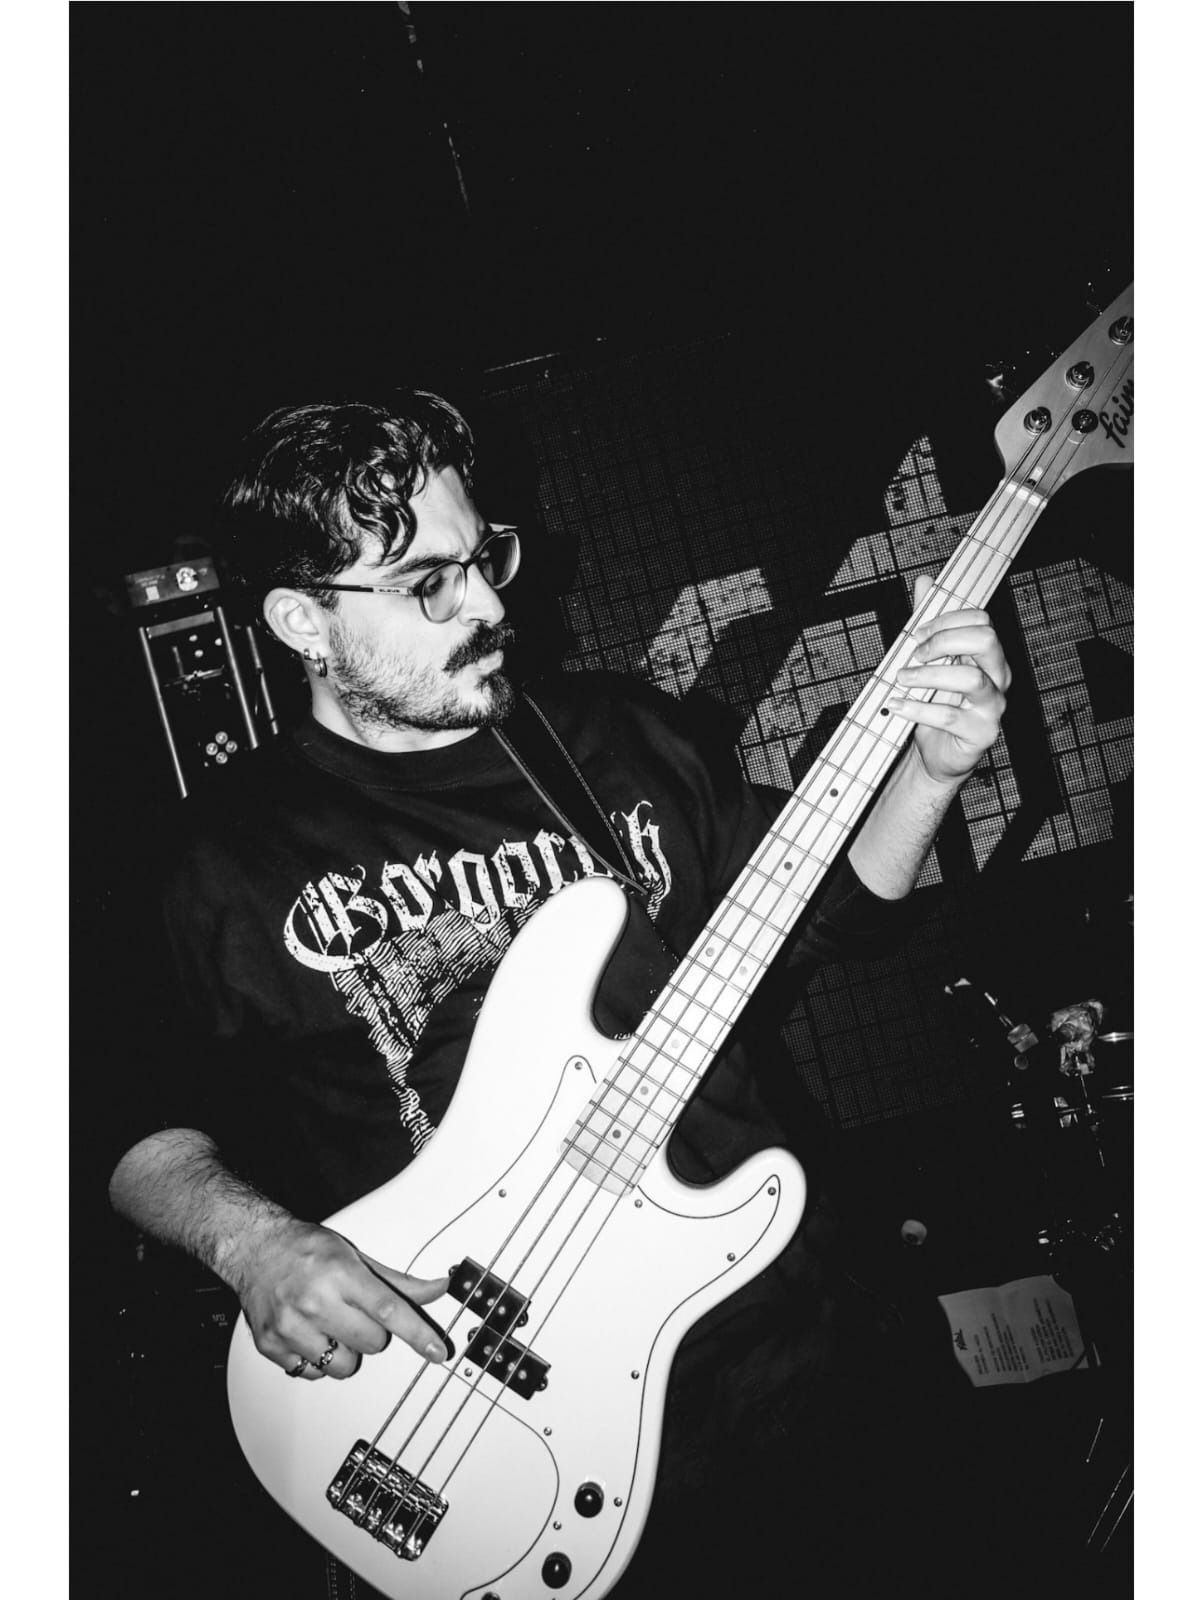
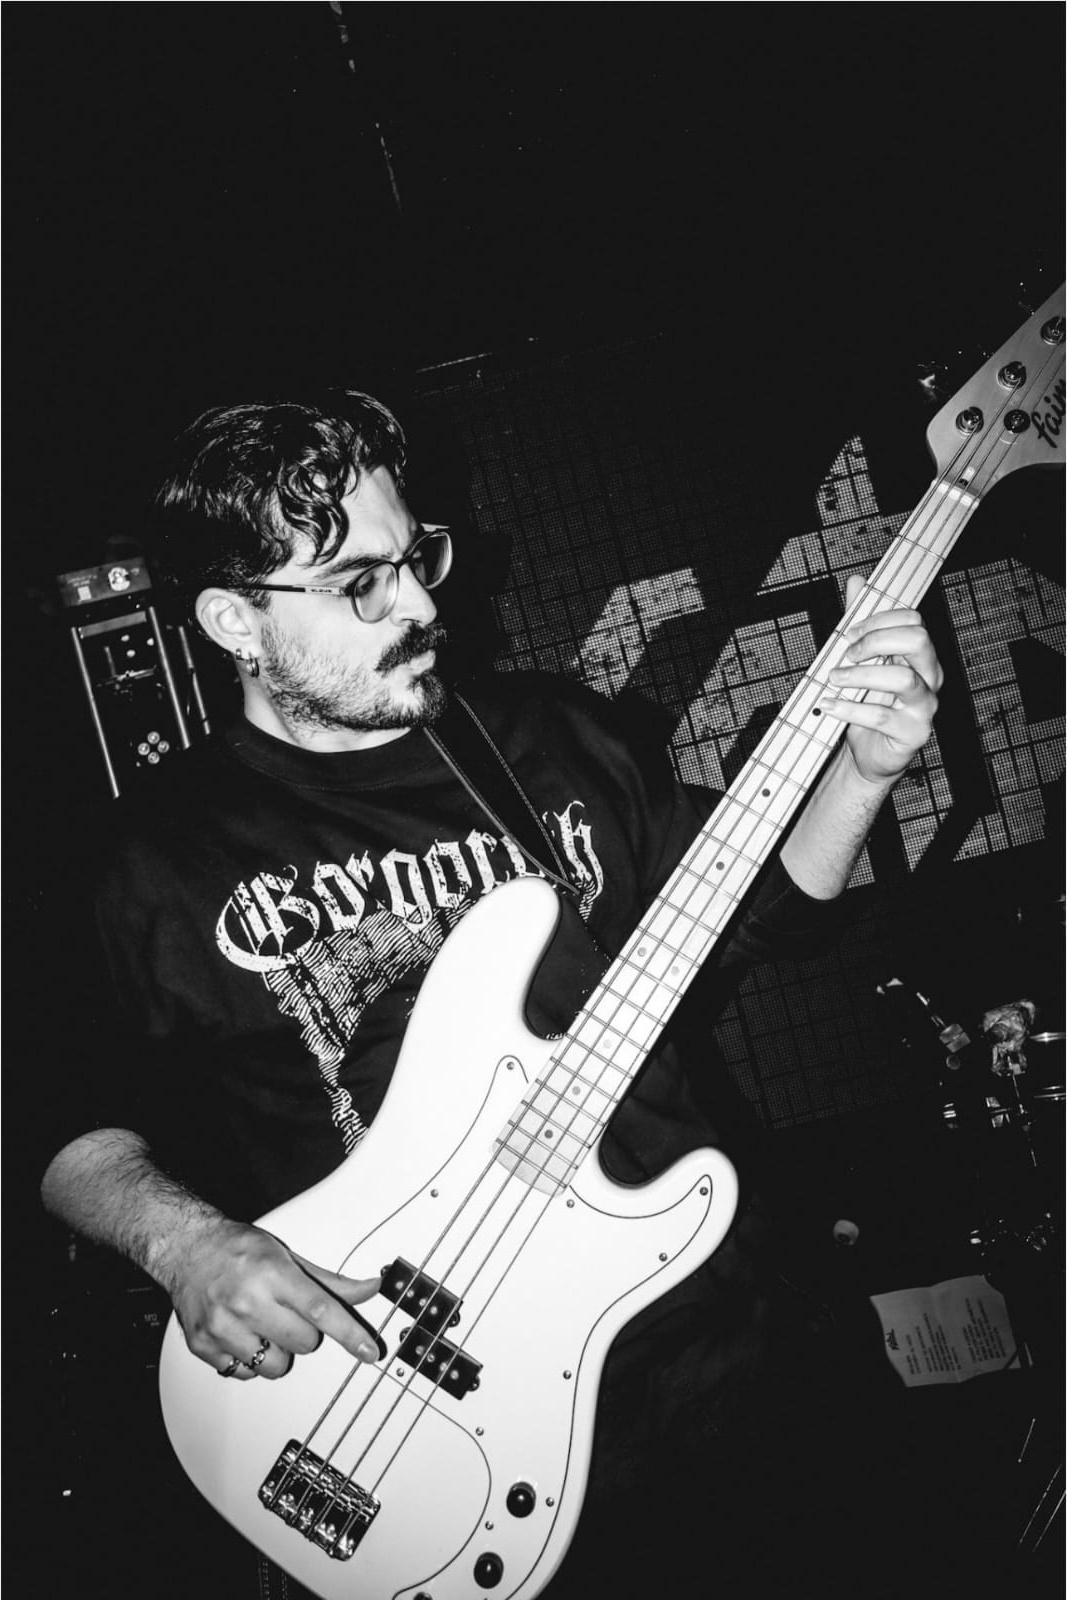
Corregir renderizado de modal galeria, recortar bordes blancos de fotos de Orange y renombrar carpetas web-safe

diff --git a/index.html b/index.html
@@ -26,7 +26,7 @@
     <!-- FontAwesome for Premium Social & Control Icons -->
     <link rel="stylesheet" href="https://cdnjs.cloudflare.com/ajax/libs/font-awesome/6.4.0/css/all.min.css">
 
-    <link rel="stylesheet" href="style.css">
+    <link rel="stylesheet" href="style.css?v=20260730_2">
 </head>
 
 <body>
@@ -277,7 +277,7 @@
                                 </tr>
                             </thead>
                             <tbody>
-                                <tr class="date-row" data-venue="Liverpool Club" data-location="Palermo, CABA" data-date="5 Jul 2026" data-media='["img/LIVERPOOL CLUB/liverpool_1.jpg", "img/LIVERPOOL CLUB/liverpool_2.jpg", "img/LIVERPOOL CLUB/liverpool_3.jpg"]'>
+                                <tr class="date-row" data-venue="Liverpool Club" data-location="Palermo, CABA" data-date="5 Jul 2026" data-media='["img/liverpool/liverpool_1.jpg", "img/liverpool/liverpool_2.jpg", "img/liverpool/liverpool_3.jpg"]'>
                                     <td class="date-cell">
                                         <span class="date-day">5</span>
                                         <div class="date-month-year">
@@ -296,7 +296,7 @@
                                         </div>
                                     </td>
                                 </tr>
-                                <tr class="date-row" data-venue="Orange" data-location="San Martín, Buenos Aires" data-date="26 Abr 2026" data-media='["img/ORANGE/orange_1.jpg", "img/ORANGE/orange_2.jpg", "img/ORANGE/orange_3.jpg", "img/ORANGE/orange_4.jpg", "img/ORANGE/orange_5.jpg", "img/ORANGE/orange_6.jpg"]'>
+                                <tr class="date-row" data-venue="Orange" data-location="San Martín, Buenos Aires" data-date="26 Abr 2026" data-media='["img/orange/orange_1.jpg", "img/orange/orange_2.jpg", "img/orange/orange_3.jpg", "img/orange/orange_4.jpg", "img/orange/orange_5.jpg", "img/orange/orange_6.jpg"]'>
                                     <td class="date-cell">
                                         <span class="date-day">26</span>
                                         <div class="date-month-year">
@@ -315,7 +315,7 @@
                                         </div>
                                     </td>
                                 </tr>
-                                <tr class="date-row" data-venue="Rock La Ve" data-location="San Justo, Buenos Aires" data-date="18 Abr 2026" data-media='["img/ROCK LA VE/rocklave_1.jpg", "img/ROCK LA VE/rocklave_2.jpg", "img/ROCK LA VE/rocklave_3.jpg", "img/ROCK LA VE/rocklave_4.jpg", "img/ROCK LA VE/rocklave_reel.mp4"]'>
+                                <tr class="date-row" data-venue="Rock La Ve" data-location="San Justo, Buenos Aires" data-date="18 Abr 2026" data-media='["img/rocklave/rocklave_1.jpg", "img/rocklave/rocklave_2.jpg", "img/rocklave/rocklave_3.jpg", "img/rocklave/rocklave_4.jpg", "img/rocklave/rocklave_reel.mp4"]'>
                                     <td class="date-cell">
                                         <span class="date-day">18</span>
                                         <div class="date-month-year">
@@ -334,7 +334,7 @@
                                         </div>
                                     </td>
                                 </tr>
-                                <tr class="date-row" data-venue="Vade" data-location="Morón, Buenos Aires" data-date="7 Feb 2026" data-media='["img/VADE 26/vade_1.jpg", "img/VADE 26/vade_2.jpg", "img/VADE 26/vade_3.jpg", "img/VADE 26/vade_4.jpg", "img/VADE 26/vade_reel.mp4"]'>
+                                <tr class="date-row" data-venue="Vade" data-location="Morón, Buenos Aires" data-date="7 Feb 2026" data-media='["img/vade/vade_1.jpg", "img/vade/vade_2.jpg", "img/vade/vade_3.jpg", "img/vade/vade_4.jpg", "img/vade/vade_reel.mp4"]'>
                                     <td class="date-cell">
                                         <span class="date-day">7</span>
                                         <div class="date-month-year">
@@ -449,6 +449,9 @@
             <div class="player-visual-equalizer">
                 <span></span><span></span><span></span><span></span><span></span>
             </div>
+        </div>
+    </div>
+
     <!-- Interactive Date Gallery Modal / Carousel -->
     <div id="gallery-modal" class="gallery-modal" aria-hidden="true" role="dialog" aria-label="Galería de fotos de la fecha">
         <div class="gallery-backdrop"></div>
@@ -491,7 +494,7 @@
     </div>
 
     <!-- Script Entrypoint -->
-    <script src="script.js"></script>
+    <script src="script.js?v=20260730_2"></script>
 </body>
 
 </html>

diff --git a/script.js b/script.js
@@ -387,28 +387,30 @@ document.addEventListener('DOMContentLoaded', () => {
     let currentGalleryMedia = [];
     let currentGalleryIndex = 0;
 
-    if (dateRows.length > 0 && galleryModal) {
-        dateRows.forEach(row => {
-            row.addEventListener('click', () => {
-                const venue = row.getAttribute('data-venue');
-                const location = row.getAttribute('data-location');
-                const date = row.getAttribute('data-date');
-                const mediaJson = row.getAttribute('data-media');
+    const datesContainer = document.querySelector('.fechas-section');
+    if (datesContainer && galleryModal) {
+        datesContainer.addEventListener('click', (e) => {
+            const row = e.target.closest('.date-row[data-media]');
+            if (!row) return;
 
-                try {
-                    currentGalleryMedia = JSON.parse(mediaJson);
-                } catch (e) {
-                    currentGalleryMedia = [];
-                }
+            const venue = row.getAttribute('data-venue');
+            const location = row.getAttribute('data-location');
+            const date = row.getAttribute('data-date');
+            const mediaJson = row.getAttribute('data-media');
 
-                if (currentGalleryMedia.length === 0) return;
+            try {
+                currentGalleryMedia = JSON.parse(mediaJson);
+            } catch (err) {
+                currentGalleryMedia = [];
+            }
 
-                galleryVenueName.textContent = venue;
-                galleryLocation.innerHTML = `${location} &bull; ${date}`;
-                currentGalleryIndex = 0;
+            if (!currentGalleryMedia || currentGalleryMedia.length === 0) return;
 
-                openGalleryModal();
-            });
+            if (galleryVenueName) galleryVenueName.textContent = venue;
+            if (galleryLocation) galleryLocation.innerHTML = `${location} &bull; ${date}`;
+            currentGalleryIndex = 0;
+
+            openGalleryModal();
         });
     }
 
@@ -463,22 +465,29 @@ document.addEventListener('DOMContentLoaded', () => {
 
     function renderGallerySlide() {
         const itemSrc = currentGalleryMedia[currentGalleryIndex];
+        if (!itemSrc) return;
+
         galleryCounter.textContent = `${currentGalleryIndex + 1} / ${currentGalleryMedia.length}`;
 
         if (galleryVideo) {
             galleryVideo.pause();
         }
 
-        const isVideo = itemSrc.endsWith('.mp4') || itemSrc.endsWith('.webm');
+        const isVideo = itemSrc.toLowerCase().endsWith('.mp4') || itemSrc.toLowerCase().endsWith('.webm');
 
         if (isVideo) {
-            galleryImg.style.display = 'none';
-            galleryVideo.style.display = 'block';
-            galleryVideo.src = itemSrc;
+            if (galleryImg) galleryImg.style.display = 'none';
+            if (galleryVideo) {
+                galleryVideo.style.display = 'block';
+                galleryVideo.src = itemSrc;
+                galleryVideo.load();
+            }
         } else {
-            galleryVideo.style.display = 'none';
-            galleryImg.style.display = 'block';
-            galleryImg.src = itemSrc;
+            if (galleryVideo) galleryVideo.style.display = 'none';
+            if (galleryImg) {
+                galleryImg.style.display = 'block';
+                galleryImg.src = itemSrc;
+            }
         }
     }
 

diff --git a/style.css b/style.css
@@ -1714,6 +1714,7 @@ body {
     border-bottom: 1px solid #222;
     padding-bottom: 1rem;
     margin-bottom: 1.2rem;
+    padding-right: 3.8rem;
 }
 
 .gallery-venue-name {
@@ -1767,6 +1768,8 @@ body {
 .gallery-media-item {
     max-width: 100%;
     max-height: 100%;
+    width: auto;
+    height: auto;
     object-fit: contain;
     border-radius: 4px;
 }
